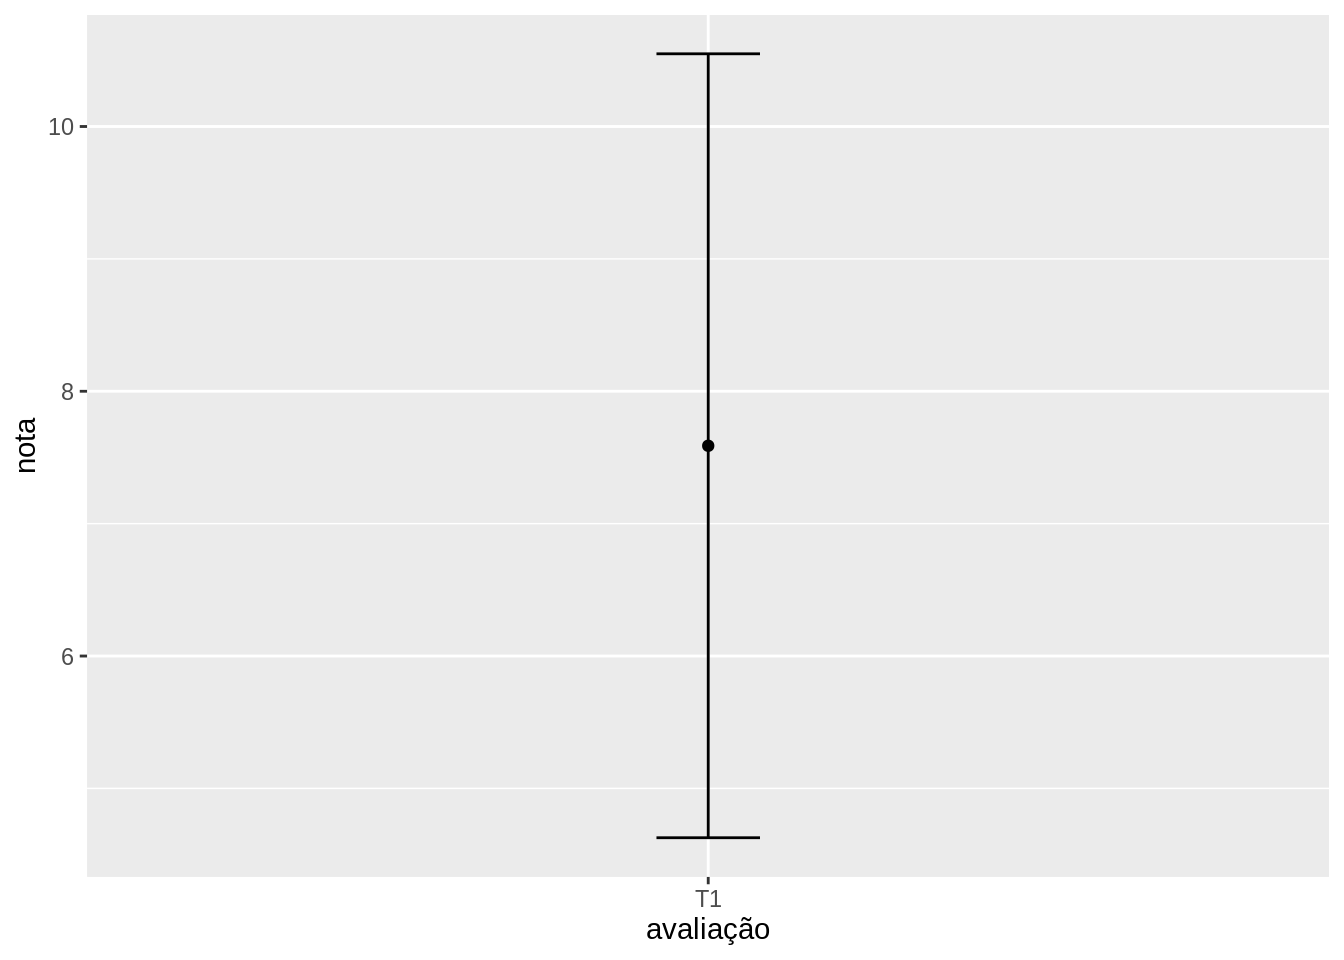
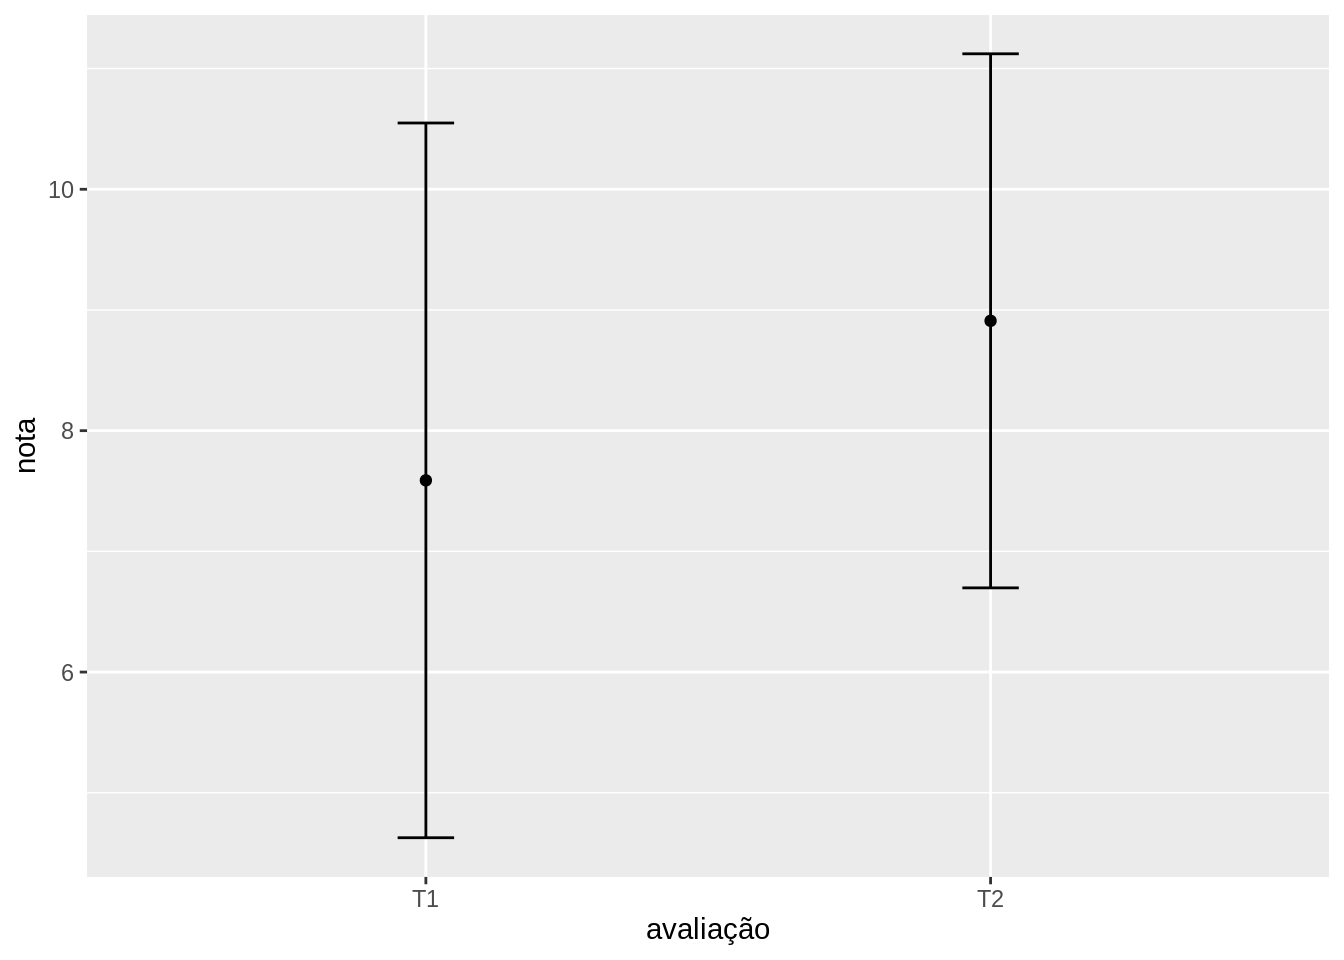
2019_2_prob_1: notas teste 2.

diff --git a/content/classes/2019_2_prob_1/grades.html b/content/classes/2019_2_prob_1/grades.html
@@ -29,7 +29,7 @@ código de ética desta disciplina e você está reprovado.</p></li>
 <div id="notas" class="section level3">
 <h3>Notas</h3>
 <div id="htmlwidget-1" style="width:100%;height:auto;" class="datatables html-widget"></div>
-<script type="application/json" data-for="htmlwidget-1">{"x":{"filter":"none","data":[[282,292,295,299,300,303,313,560,955,956,1779,1810,1877,1879,1880,1892,1914,1949,2066,2119,2123,2728,2872,3228,4149,4459,4750,4843,4844,4847,4855,4878,4882,5946,6690,7200,7390,7703,7653,7838,7857,7920,8013,8649,8675,8683,8692,8695,8921,9309,9339,9739,9782],[0,0.25,0,0,0,0,0,0.25,0,0,0,0,0,0,0,0,0,0,0,0,0,0,0.25,0,0,0,0,0,0,0,0,0,0,0,0,0,0,0.25,0,0,0,0,0,0,0.25,0,0,0,0,0,0,0,0],[5,10,10,10,10,10,5,4,10,10,5,0,10,7,3,10,10,4,7,5,0,10,10,10,7,5,3,5,2,5,10,10,10,8,1,10,10,10,10,4,10,4,10,10,3,10,10,2,8,10,10,10,5]],"container":"<table class=\"display\">\n  <thead>\n    <tr>\n      <th>RA<\/th>\n      <th>Part<\/th>\n      <th>T1<\/th>\n    <\/tr>\n  <\/thead>\n<\/table>","options":{"dom":"ftip","columnDefs":[{"className":"dt-right","targets":[0,1,2]}],"order":[],"autoWidth":false,"orderClasses":false}},"evals":[],"jsHooks":[]}</script>
+<script type="application/json" data-for="htmlwidget-1">{"x":{"filter":"none","data":[[282,292,295,299,300,303,313,560,955,956,1779,1810,1877,1879,1880,1892,1914,1949,2066,2119,2123,2728,2872,3228,4149,4459,4750,4843,4844,4847,4855,4878,4882,5946,6690,7200,7390,7653,7703,7838,7857,7920,8013,8649,8675,8683,8692,8695,8921,9309,9339,9739,9782],[0,0.25,0,0,0,0.25,0.25,0.25,0,0,0,0,0,0.25,0,0,0.25,0.25,0,0,0,0,0.5,0,0,0,0,0,0,0,0.25,0,0,0,0,0,0,0,0.25,0.25,0,0,0,0,0.25,0,0.25,0,0,0,0,0,0],[5,10,10,10,10,10,5,4,10,10,5,0,10,7,3,10,10,4,7,5,0,10,10,10,7,5,3,5,2,5,10,10,10,8,1,10,10,10,10,4,10,4,10,10,3,10,10,2,8,10,10,10,5],[10,10,8,9,10,10,1,10,9.5,11,10,6,10,9,7.5,7,10,9.5,11,8,0,10,10,8,9.5,9,8,10,10,0,10,10,10,10,0,10,4,10,10,10,10,10,11,2,10,4,11,6,7,9.5,11,9,10]],"container":"<table class=\"display\">\n  <thead>\n    <tr>\n      <th>RA<\/th>\n      <th>Part<\/th>\n      <th>T1<\/th>\n      <th>T2<\/th>\n    <\/tr>\n  <\/thead>\n<\/table>","options":{"dom":"ftip","columnDefs":[{"className":"dt-right","targets":[0,1,2,3]}],"order":[],"autoWidth":false,"orderClasses":false}},"evals":[],"jsHooks":[]}</script>
 </div>
 <div id="graficos" class="section level3">
 <h3>Gráficos</h3>
